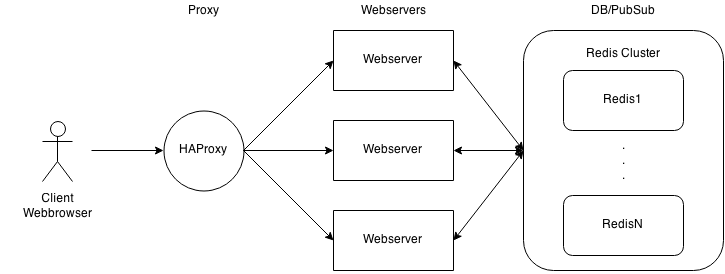
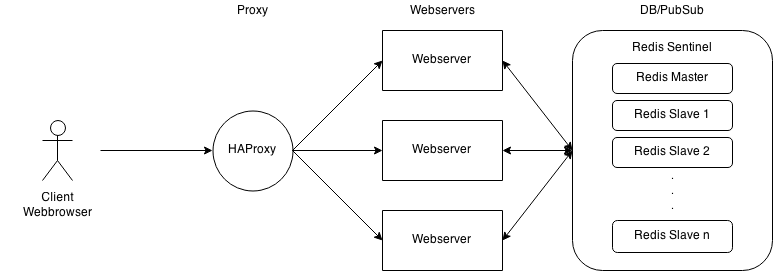
update readme to match setup

diff --git a/README.md b/README.md
@@ -36,16 +36,16 @@ web-framework and
 [faye-websockets](https://github.com/faye/faye-websocket-ruby) for websocket
 handling.
 
-Since it is a distributed chat there will be several webservers and websockets
-would only be able to communicate with each other if the users landed on the
-same webserver by luck. To handle this problem [redis](http://redis.io/) is
-used with its [Pub/Sub](http://redis.io/topics/pubsub) features. And since
-redis is already present, it is also used as a storage mechanism for the
-messaging history. I realize that in real live production environments this
-would probably be done differently, since there is a chance that redis has not
-persistet the history completely in case of a crash. Redis can [easily be
-clustered](http://redis.io/topics/cluster-tutorial) starting with the 3.0
-release.
+Since it is a distributed chat there will be several webservers and websockets,
+which have to be able to communicate with each other, even if the users landed
+on different webservers by luck. To handle this problem
+[redis](http://redis.io/) is used with its
+[Pub/Sub](http://redis.io/topics/pubsub) features. And since redis is already
+present, it is also used as a storage mechanism for the messaging history. I
+realize that in real live production environments this would probably be done
+differently, since there is a chance that redis has not persistet the history
+completely in case of a crash. Redis has a pretty easy [high availability
+setup](http://redis.io/topics/cluster-tutorial) using redis-sentinel.
 
 Since we have now decoupled the websockets from the webserver, we can easily
 add more instances of the webserver. To load balance access to those webservers
@@ -54,9 +54,9 @@ like.
 
 ![current architecture](https://raw.githubusercontent.com/flower-pot/dat_chat/master/docs/current-architecture.png)
 
-> Info: when you look at my current HAProxy configuration you will notice that
-> it is very simple. It is just meant for locally trying out the application.
-> It is not suited for production use.
+When you look at my current HAProxy configuration you will notice that it is
+very simple. It is just meant for locally trying out the application. It is
+not suited for production use.
 
 To allow clustering of the HAProxy we would need something like an [Elastic IP
 Address](http://docs.aws.amazon.com/AWSEC2/latest/UserGuide/elastic-ip-addresses-eip.html).
